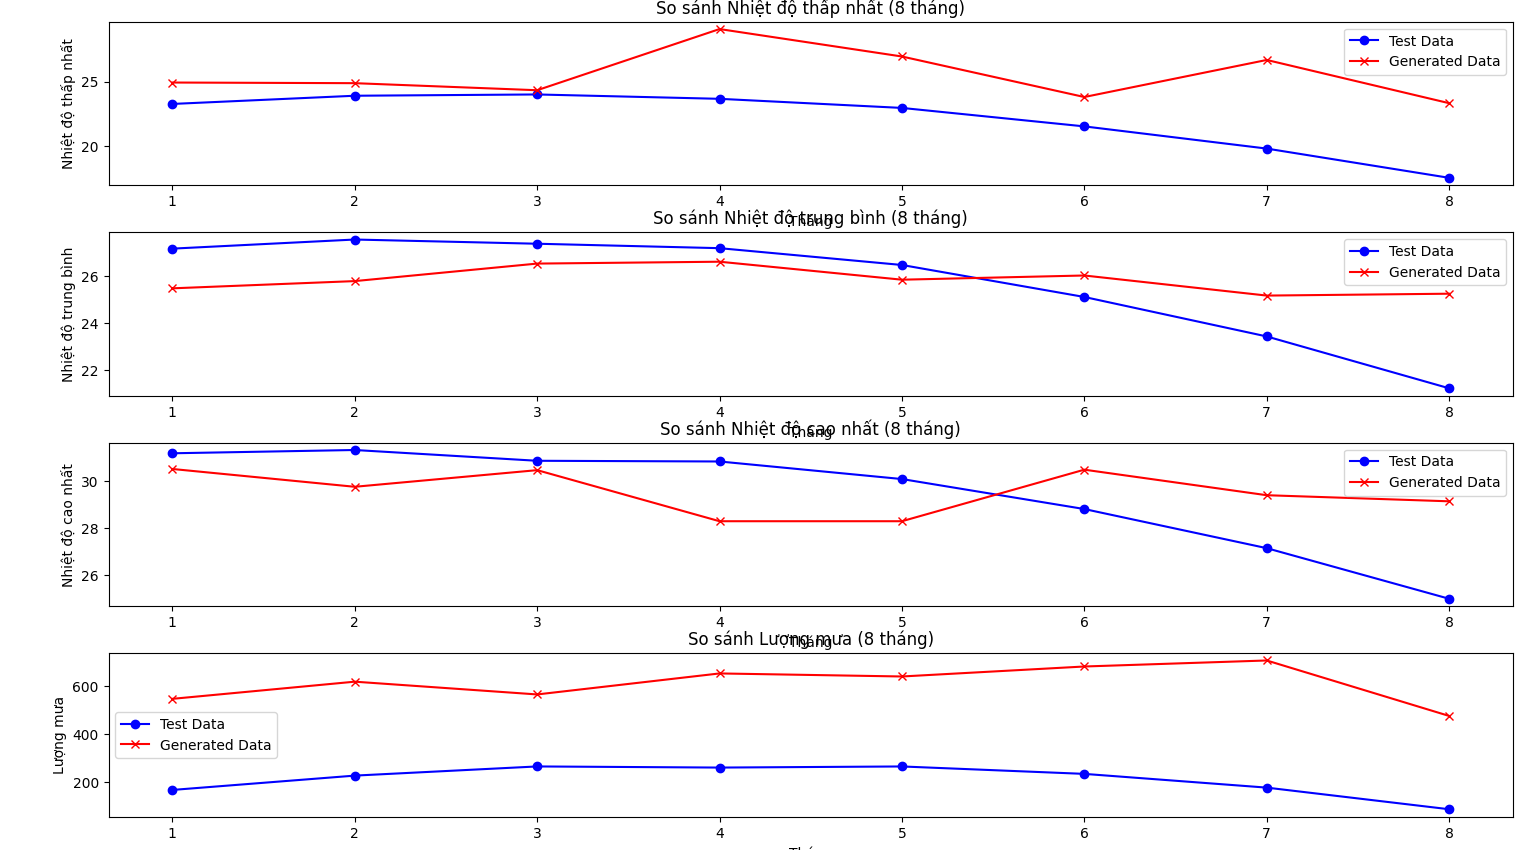
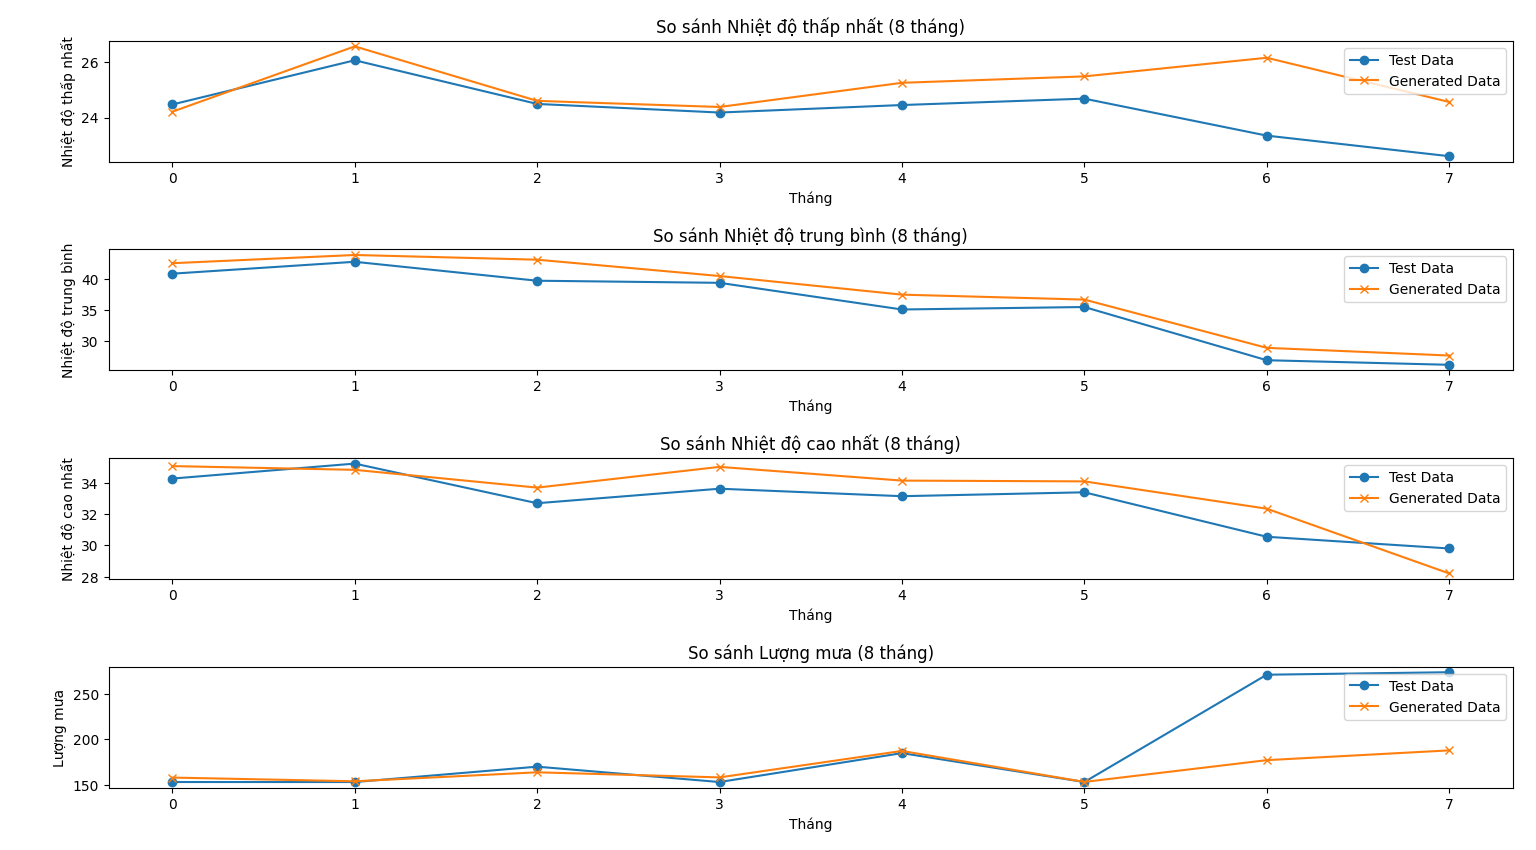
Rerun project

diff --git a/models/WeatherForecast.py b/models/WeatherForecast.py
@@ -85,7 +85,7 @@ def train_gan(epochs, batch_size=1):
 
 
 # Thực hiện huấn luyện
-train_gan(epochs=1000)
+train_gan(epochs=2000)
 
 
 # Dự đoán dữ liệu mới
